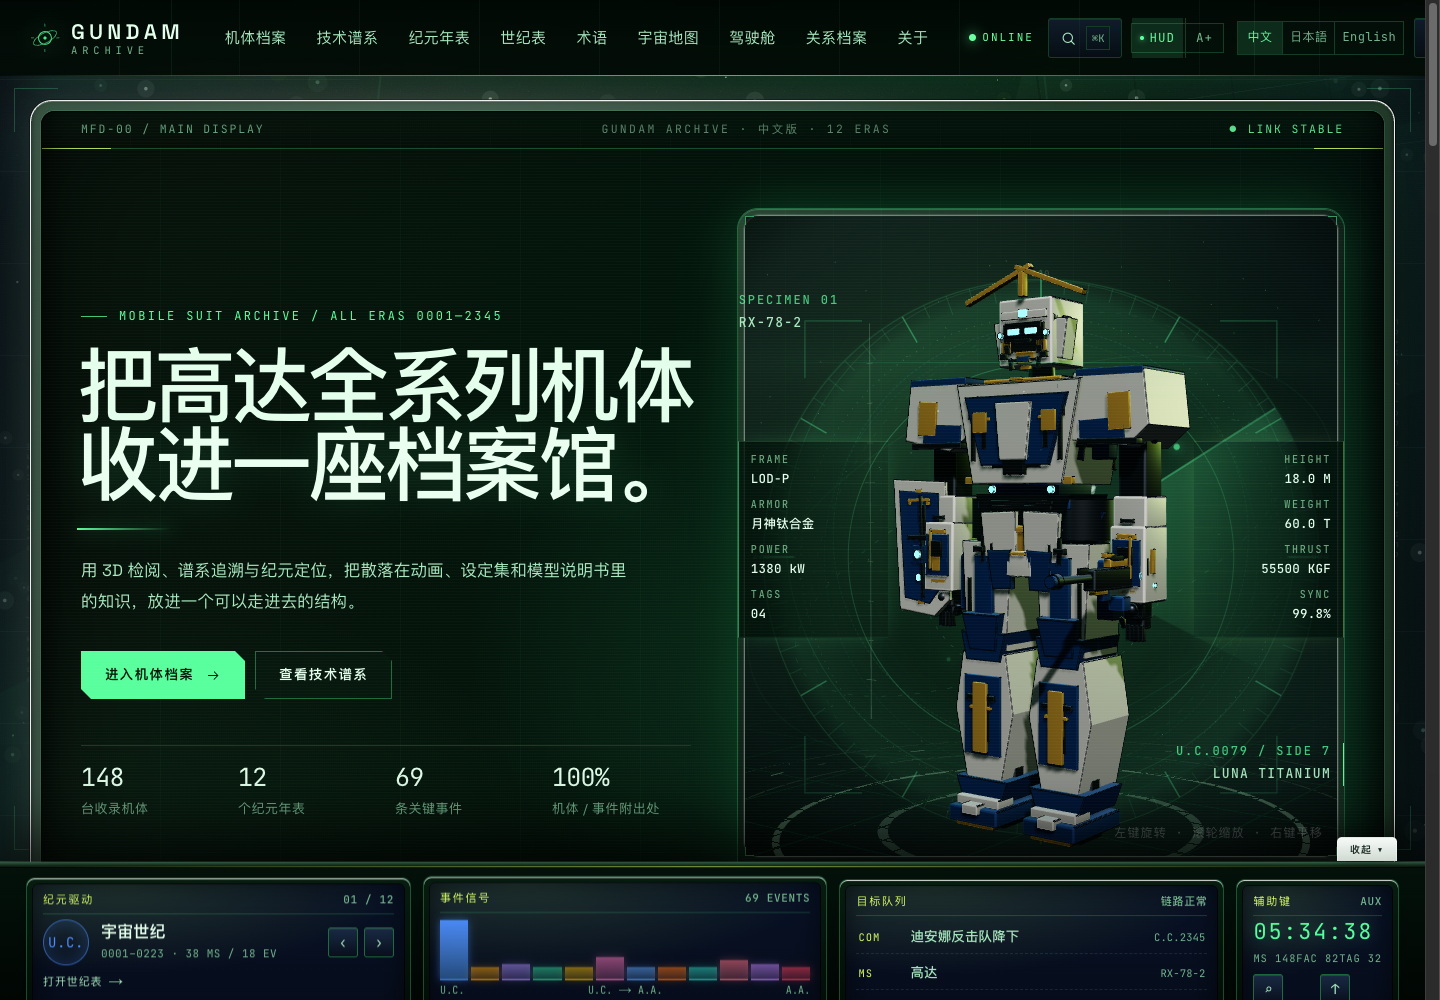
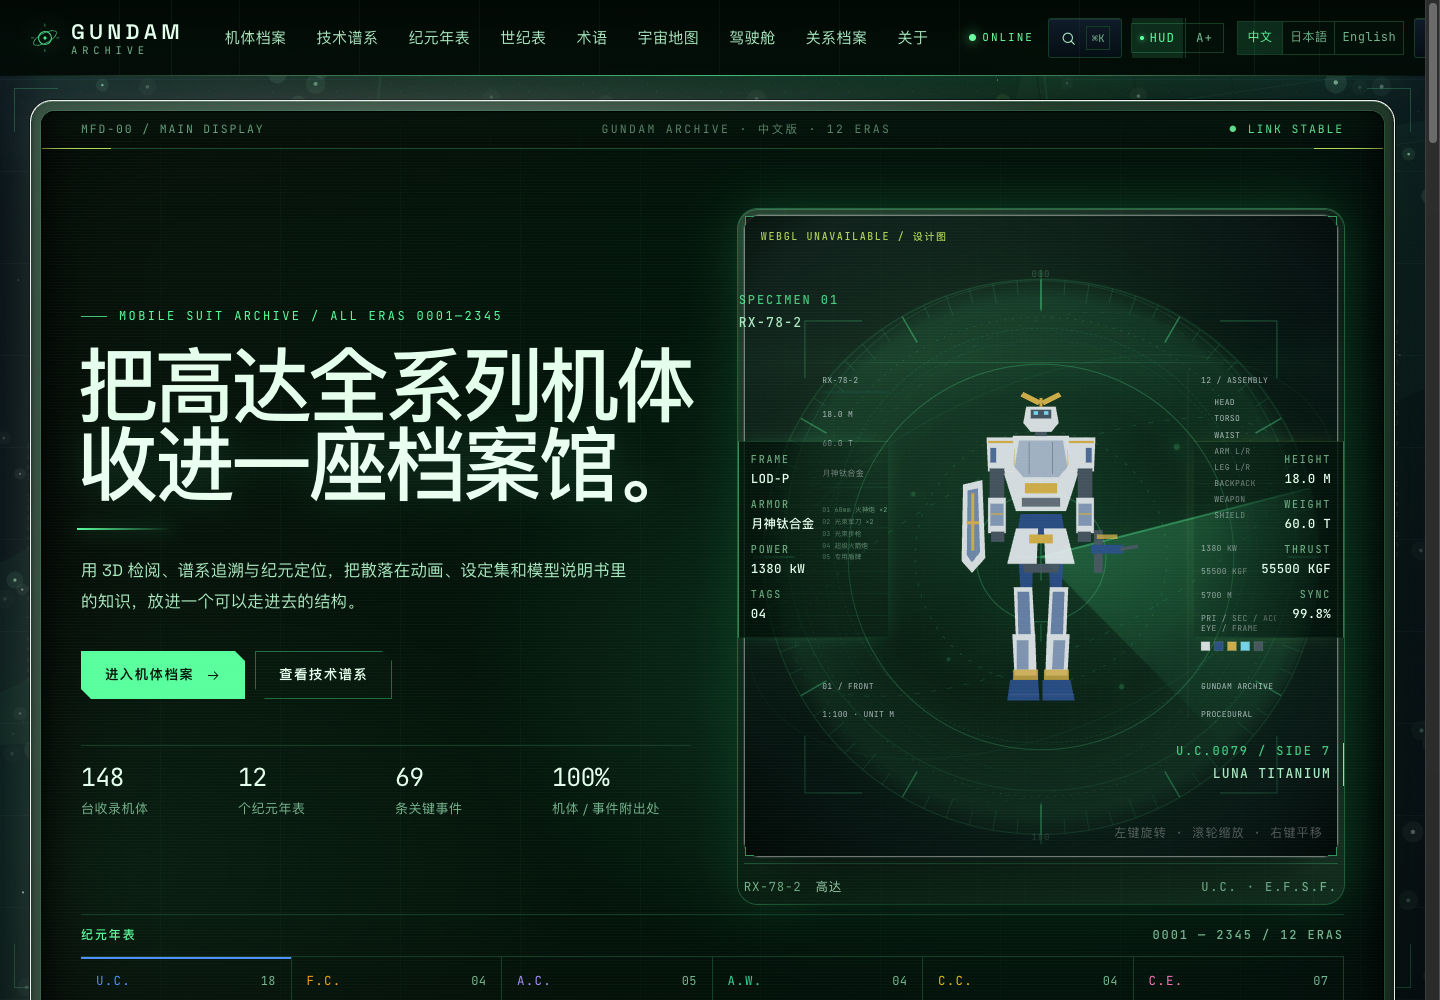
feat(ui): v3.3.2 remove operation console and deepen starfield

diff --git a/src/app/(site)/[lang]/layout.tsx b/src/app/(site)/[lang]/layout.tsx
@@ -9,10 +9,7 @@ import { CommandPalette } from "@/components/CommandPalette";
 import { ScrollRestore } from "@/components/ScrollRestore";
 import { CockpitHud } from "@/components/CockpitHud";
 import { SpaceBackdrop } from "@/components/SpaceBackdrop";
-import { CockpitConsole } from "@/components/CockpitConsole";
 import { CockpitRails } from "@/components/CockpitRails";
-import { getMachine } from "@/lib/content";
-import { formatStoryDate } from "@/lib/format";
 import { display, mono } from "@/app/fonts";
 import { themeBootScript } from "@/app/theme-script";
 import "@/app/globals.css";
@@ -99,36 +96,6 @@ export default async function LangLayout({
     tags: bundle.tags.length,
     pages: bundle.machines.length + bundle.characters.length + bundle.factions.length + bundle.events.length + bundle.tags.length + bundle.works.length,
   };
-  const latestEvents = [...bundle.events]
-    .sort((a, b) => a.date.year - b.date.year || (a.date.month ?? 0) - (b.date.month ?? 0))
-    .slice(-2)
-    .reverse();
-  const featured = getMachine("rx-78-2") ?? bundle.machines[0];
-  const latest = latestEvents[0];
-  const latestEra = latest ? bundle.eras.find((item) => item.id === latest.eraId) : undefined;
-  const targets = [
-    latest
-      ? {
-          kind: "COM",
-          label: pick(latest.title, typed),
-          meta: latestEra ? formatStoryDate(latest.date, latestEra.code, typed) : String(latest.date.year),
-          href: `/${typed}/events/${latest.id}`,
-        }
-      : null,
-    {
-      kind: "MS",
-      label: pick(featured.name, typed),
-      meta: featured.modelCode,
-      href: `/${typed}/machines/${featured.id}`,
-    },
-    {
-      kind: "MAP",
-      label: dict.nav.map,
-      meta: `${bundle.eras.length} ERAS`,
-      href: `/${typed}/map`,
-    },
-  ].filter((item): item is { kind: string; label: string; meta: string; href: string } => Boolean(item));
-
   return (
     <html lang={typed === "ja" ? "ja" : typed === "en" ? "en" : "zh-CN"} data-theme="dark" data-hud="on" data-read="std" suppressHydrationWarning>
       <head>
@@ -160,7 +127,6 @@ export default async function LangLayout({
               </div>
             </div>
           </main>
-          <CockpitConsole eras={eraStats} targets={targets} totals={totals} lang={typed} dict={dict} />
           <CommandPalette lang={typed} dict={dict} />
         </div>
       </body>

diff --git a/src/styles/cockpit.css b/src/styles/cockpit.css
@@ -1105,7 +1105,7 @@ body {
 @media (max-width: 1500px) {
   :root {
     --deck-max: 100%;
-    --console-h: 138px;
+    --console-h: 0px;
   }
   .console {
     grid-template-columns: minmax(200px, 1fr) minmax(220px, 1.05fr) minmax(220px, 1fr) auto;
@@ -1114,7 +1114,7 @@ body {
 
 @media (max-width: 1180px) {
   :root {
-    --console-h: 122px;
+    --console-h: 0px;
     --rail-w: 0px;
   }
   .console {
@@ -1542,4 +1542,38 @@ body {
     font-size: 20px;
     line-height: 1;
   }
+}
+
+/* ---------- starfield inside the main display (v3.3.2) ---------- */
+
+.cockpit-screen__inner::before {
+  content: "";
+  position: absolute;
+  inset: 0;
+  z-index: 0;
+  pointer-events: none;
+  opacity: 0.55;
+  background-image:
+    radial-gradient(1px 1px at 7% 12%, rgba(234, 255, 240, 0.9), transparent 100%),
+    radial-gradient(1px 1px at 17% 68%, rgba(184, 255, 210, 0.7), transparent 100%),
+    radial-gradient(1.3px 1.3px at 29% 28%, rgba(216, 255, 99, 0.65), transparent 100%),
+    radial-gradient(1px 1px at 41% 82%, rgba(234, 255, 240, 0.75), transparent 100%),
+    radial-gradient(1.2px 1.2px at 55% 18%, rgba(184, 255, 210, 0.75), transparent 100%),
+    radial-gradient(1px 1px at 68% 56%, rgba(234, 255, 240, 0.55), transparent 100%),
+    radial-gradient(1.4px 1.4px at 79% 33%, rgba(216, 255, 99, 0.5), transparent 100%),
+    radial-gradient(1px 1px at 91% 74%, rgba(234, 255, 240, 0.65), transparent 100%),
+    radial-gradient(1px 1px at 12% 92%, rgba(184, 255, 210, 0.55), transparent 100%),
+    radial-gradient(1px 1px at 63% 91%, rgba(234, 255, 240, 0.5), transparent 100%);
+  background-size: 340px 340px;
+  animation: screen-star-drift 90s linear infinite;
+  mask-image: radial-gradient(120% 90% at 50% 35%, #000 30%, rgba(0, 0, 0, 0.65) 70%, transparent 100%);
+}
+
+@keyframes screen-star-drift {
+  from { background-position: 0 0; }
+  to { background-position: -340px 170px; }
+}
+
+@media (prefers-reduced-motion: reduce) {
+  .cockpit-screen__inner::before { animation: none; }
 }

diff --git a/src/app/(site)/[lang]/about/page.tsx b/src/app/(site)/[lang]/about/page.tsx
@@ -164,7 +164,7 @@ export default async function AboutPage({ params }: { params: Promise<{ lang: st
         <div className="container">
           <div className="page-head__crumb">
             <span className="mono">GUNDAM / ABOUT</span>
-            <span className="mono">V3.3.1 / 2026.11.16</span>
+            <span className="mono">V3.3.2 / 2026.11.16</span>
           </div>
           <div className="about-head__mark">
             <OrbitMark size={54} />
@@ -173,7 +173,7 @@ export default async function AboutPage({ params }: { params: Promise<{ lang: st
           <h1>{dict.about.title}</h1>
           <p className="about-head__lead">{dict.about.lead}</p>
           <div className="about-head__meta">
-            <span className="micro">{t.version} 3.3.1</span>
+            <span className="micro">{t.version} 3.3.2</span>
             <span className="micro">{t.cut} 2026.11.16</span>
             <span className="micro">{bundle.machines.length} MS / {bundle.events.length} EVENTS</span>
           </div>
@@ -311,7 +311,7 @@ export default async function AboutPage({ params }: { params: Promise<{ lang: st
             <p>{dict.about.license}</p>
             <p className="about-disclaimer">{dict.about.disclaimer}</p>
             <div className="about-bottom">
-              <span className="micro">GUNDAM ARCHIVE / V3.3.1</span>
+              <span className="micro">GUNDAM ARCHIVE / V3.3.2</span>
               <Link href={`/${typed}`} className="text-link">
                 {dict.nav.home} <span aria-hidden>→</span>
               </Link>

diff --git a/src/components/SiteFooter.tsx b/src/components/SiteFooter.tsx
@@ -56,7 +56,7 @@ export function SiteFooter({ lang }: { lang: Lang }) {
             </a>
             <Link href={`/${lang}/about#roadmap`}>{dict.about.roadmapTitle}</Link>
             <Link href={`/${lang}/about#license`}>{dict.about.licenseTitle}</Link>
-            <span>v3.3.1</span>
+            <span>v3.3.2</span>
           </div>
         </div>
 

diff --git a/src/app/globals.css b/src/app/globals.css
@@ -47,7 +47,7 @@
   --screen-ink: #010603;
 
   --header-h: 76px;
-  --console-h: 168px;
+  --console-h: 0px;
   --rail-w: 138px;
   --deck-max: 1560px;
   --maxw: 1560px;

diff --git a/src/styles/tactical.css b/src/styles/tactical.css
@@ -15,7 +15,7 @@
 }
 
 [data-theme="dark"] .site-bg::before {
-  opacity: 0.34;
+  opacity: 0.62;
   filter: hue-rotate(76deg) saturate(1.5);
 }
 

diff --git a/README.md b/README.md
@@ -15,7 +15,7 @@
 
 站点是纯静态的 Next.js 导出：内容用 JSON 维护、Zod 在构建期校验，页面带中 / 日 / 英三语、3D 机体查看器、技术谱系、纪元年表、2D/3D 宇宙地图与关系图谱。新增一条内容不需要改页面代码；一次 `pnpm check` 会同时检查内容、文档、类型、语言、链接与全部导出路由。
 
-当前版本：**v3.3.1**（2026-11-16）。  
+当前版本：**v3.3.2**（2026-11-16）。  
 当前快照：**148 台机体 · 12 个纪元 · 114 位人物 · 42 部作品 · 69 条事件 · 82 个势力 · 32 个受控标签 · 116 条谱系边 · 156 个地图节点**；`/zh`、`/ja` 与 `/en` 三语，共 **1280 个静态页面**、**487 条/语言检索索引**、**1272 条 sitemap 路由**。
 
 ## 30 秒读懂
@@ -26,6 +26,12 @@
 - **怎么改**：内容在 `content/`，说明在 [CONTENT_GUIDE](docs/CONTENT_GUIDE.md)；发布/回滚/排障在 [OPERATIONS](docs/OPERATIONS.md)。
 
 > **范围**：收录 11 个正史纪元的高达型主线机体与核心外传机体，另保留 2 台 A.A. 原创扩展。不是 5,000+ 全衍生型号图鉴，也不含官方设计图。收录规则见 [MACHINE_COVERAGE](docs/MACHINE_COVERAGE.md)。
+
+## V3.3.2 调整
+
+- 删除固定在底部的操作台及其“打开操纵台”开关；主屏占满视口高度，界面收回到座舱框、侧轨和页脚。
+- 主屏内部增加一层更慢的星野；星座和星尘现在透过座舱玻璃可见，而不只存在于外框边缘。
+- 提高外层星点不透明度，控制台相关间距归零。
 
 ## 这次更新（V3.3.1）
 

diff --git a/README.en.md b/README.en.md
@@ -15,7 +15,7 @@
 
 The site is a fully static Next.js export. Content is maintained as JSON and validated by Zod at build time. It ships Chinese, Japanese and English routes, a procedural 3D viewer, a technology DAG, a chronology, a 2D/3D orbital atlas and relationship graphs. Adding an entry does not require changing page code; one `pnpm check` validates content, docs, types, language, links and every exported route.
 
-Current version: **v3.3.1** (2026-11-16).  
+Current version: **v3.3.2** (2026-11-16).  
 Current snapshot: **148 machines · 12 eras · 114 characters · 42 works · 69 events · 82 factions · 32 controlled tags · 116 lineage edges · 156 atlas nodes**. The `/zh`, `/ja` and `/en` sites have **1280 static pages**, **487 search entries per language** and **1272 sitemap routes**.
 
 ## 30-second overview
@@ -27,7 +27,7 @@ Current snapshot: **148 machines · 12 eras · 114 characters · 42 works · 69 
 
 > **Scope**: 148 machines — 146 from 11 mainline eras plus 2 A.A. originals — covering mainline and core side stories. This is not a 5,000+ variant catalogue and contains no official artwork.
 
-## What's new in v3.3.1
+## What's new in v3.3.2
 
 | Area | Current state |
 | --- | --- |

diff --git a/docs/ASSET_PIPELINE.md b/docs/ASSET_PIPELINE.md
@@ -1,6 +1,6 @@
 # 3D 资产与渲染管线
 
-> 对应方案书第七章。当前 v3.3.1 仍交付 **LOD-P（程序化占位）**；本文同时定义未来 glTF LOD0 的接入契约，确保换资产不改页面代码。发布与回滚见 [OPERATIONS](OPERATIONS.md)。
+> 对应方案书第七章。当前 v3.3.2 仍交付 **LOD-P（程序化占位）**；本文同时定义未来 glTF LOD0 的接入契约，确保换资产不改页面代码。发布与回滚见 [OPERATIONS](OPERATIONS.md)。
 
 ## 1. LOD 规范
 
@@ -149,7 +149,7 @@ V1 仓库未包含 Blender 脚本与真实模型；流水线目录与脚本在 M
 - 动画只做姿态与特效，不改变机体参数、分件 ID 或 `partId` 悬停契约。接入 glTF LOD0 时，骨骼动画可替换本层，页面接口不变。
 
 
-## 10. C++ WebAssembly 骨架核心（v3.3.1）
+## 10. C++ WebAssembly 骨架核心（v3.3.2）
 
 `engine/mech_core.cpp` 是 freestanding C++，不依赖 libc/libm，由 `scripts/build-wasm.sh` 编译为 `public/mech-core.wasm`：
 

diff --git a/README.ja.md b/README.ja.md
@@ -15,7 +15,7 @@
 
 サイトは完全静的な Next.js 書き出しです。内容は JSON で管理し、Zod がビルド時に検証します。日本語・中国語・英語の三言語、3D機体ビューア、技術系譜、紀元年表、2D/3D宇宙地図、関連グラフを備え、内容の追加にページコードの変更は不要です。`pnpm check` が内容・文書・型・言語・リンク・全エクスポートルートをまとめて検査します。
 
-現在のバージョン：**v3.3.1**（2026-11-16）。  
+現在のバージョン：**v3.3.2**（2026-11-16）。  
 現在のスナップショット：**148機体 · 12紀元 · 114人物 · 42作品 · 69事件 · 82勢力 · 32技術タグ · 116系譜辺 · 156地図ノード**。`/zh`・`/ja`・`/en` の三言語で **1280ページ**、**言語ごとに487件**の検索索引、**1272本**の sitemap ルート。
 
 ## 5分でわかる

diff --git a/CHANGELOG.md b/CHANGELOG.md
@@ -1,5 +1,18 @@
 # Changelog
 
+## [3.3.2] — 2026-11-16
+
+### Changed
+
+- Removed the fixed bottom operation console and its toggle. The main display now owns the full viewport height; the cockpit frame, side rails and footer carry the interface without a console deck.
+- Added a second, slower star layer inside the main display itself, so the space background is visible through the cockpit glass rather than only around the bezel.
+- Increased the outer star pattern opacity and reduced console-era spacing variables to zero.
+
+### Checks
+
+- Same content snapshot: 148 machines, 114 characters, 69 events, 82 factions, 12 eras, 156 atlas nodes.
+- 1,280 static pages, 1,272 sitemap routes, 487 search entries per language.
+
 ## [3.3.1] — 2026-11-16
 
 ### Added

diff --git a/docs/README.en.md b/docs/README.en.md
@@ -2,7 +2,7 @@
 
 [中文](README.md) ｜ [English](README.en.md) ｜ [Project README](../README.en.md)
 
-> This is the English entry point for the documentation. The **Chinese documents are canonical**; English pages summarize the map, authority order and maintenance rules, and link to the canonical detail. Release: v3.3.1 · 2026-11-16.
+> This is the English entry point for the documentation. The **Chinese documents are canonical**; English pages summarize the map, authority order and maintenance rules, and link to the canonical detail. Release: v3.3.2 · 2026-11-16.
 
 ## 1. Authority order
 
